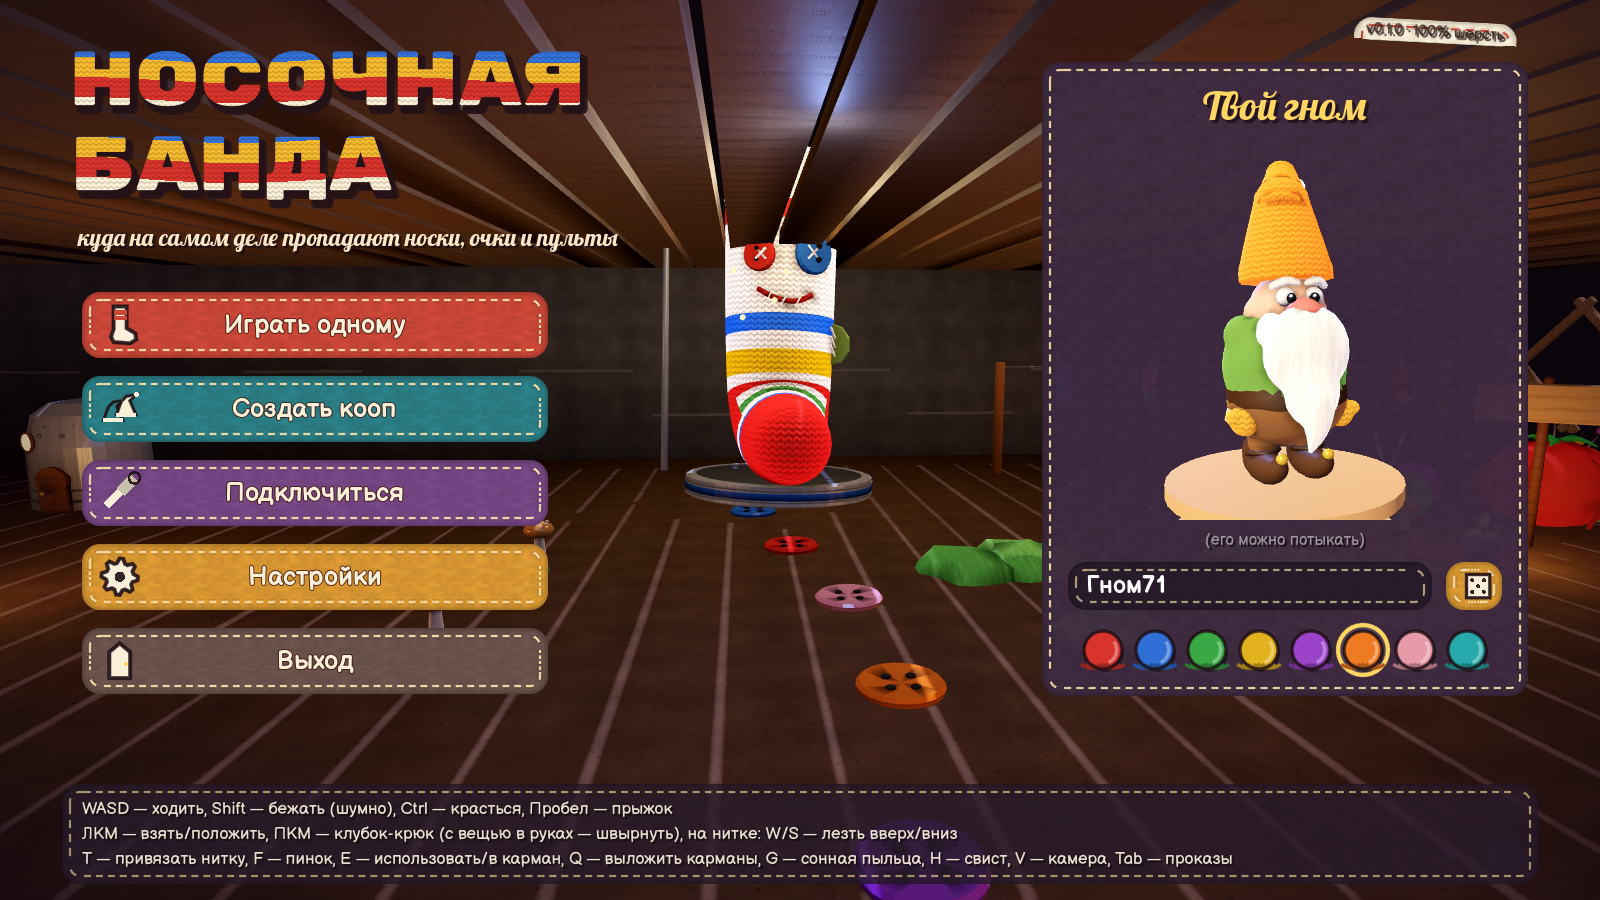
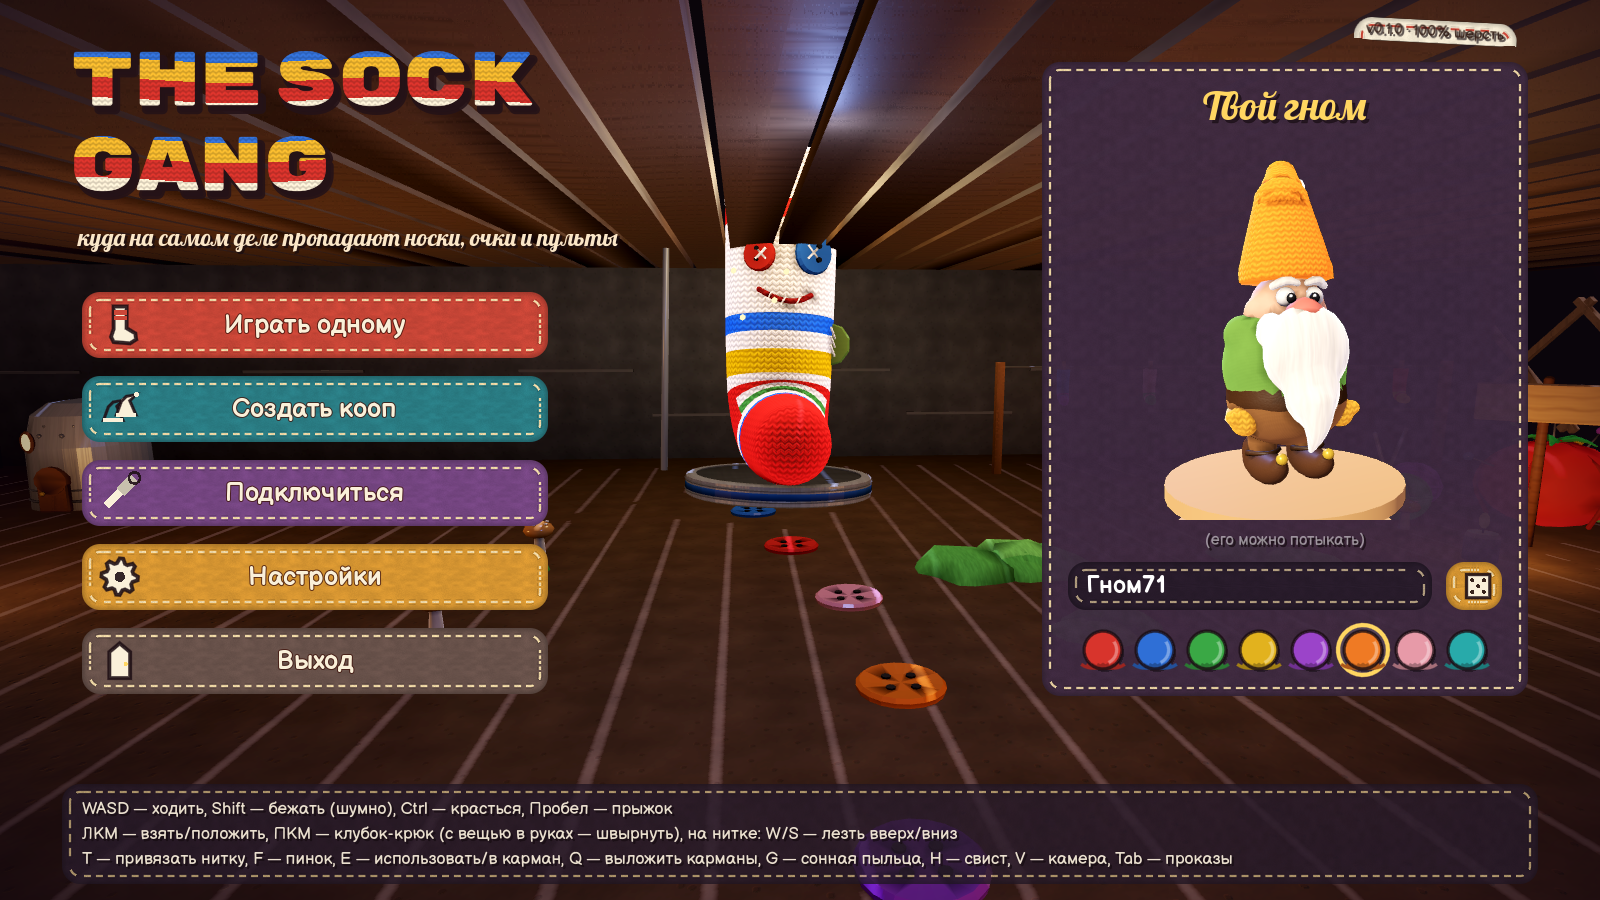
Call the game The Sock Gang everywhere
- The title is "THE SOCK GANG" in both languages: knitted menu logo
  ("THE SOCK" over "GANG", words set with a narrow gap), window title,
  exe product name, credits, README, docs, release names, Unity menus.
- The user data folder follows the new name; saves and settings from
  the old "Sock Gang" folder are copied over on first start.

Claude-Session: https://claude.ai/code/session_01GNXuQmuMSgWvcaPnoJRmHq

Changed region(s): [[0.0312, 0.0311, 0.375, 0.1244], [0.125, 0.1556, 0.25, 0.2489], [0.0312, 0.1556, 0.0938, 0.2178]]

diff --git a/Assets/Scripts/Core/Defs/Loc.cs b/Assets/Scripts/Core/Defs/Loc.cs
@@ -12,7 +12,7 @@ namespace Gnomes.Core
         static readonly Dictionary<string, string[]> table = new Dictionary<string, string[]>
         {
             // --- menus ---
-            ["title"] = new[] { "НОСОЧНАЯ БАНДА", "THE SOCK GANG" },
+            ["title"] = new[] { "THE SOCK GANG", "THE SOCK GANG" },
             ["subtitle"] = new[] { "куда на самом деле пропадают носки, очки и пульты", "where socks, glasses and remotes really go" },
             ["solo"] = new[] { "Играть одному", "Play solo" },
             ["host"] = new[] { "Создать кооп", "Host co-op" },
@@ -115,7 +115,7 @@ namespace Gnomes.Core
             ["nightTime"] = new[] { "Ночь", "Night" },
             ["credits"] = new[] { "Об игре", "About" },
             ["creditsText"] = new[] {
-                "«Носочная банда» — игра про гномов из-под крыльца.\n\nМодели связаны из треугольников вручную (ну, скриптами). Шрифты: Balsamiq Sans, Lobster и Rubik Mono One (SIL OFL). Движок: Godot.\n\nНи один носок не пострадал. Ну, почти.\nДед, если ты это читаешь — очки в аквариуме.",
+                "«The Sock Gang» — игра про гномов из-под крыльца.\n\nМодели связаны из треугольников вручную (ну, скриптами). Шрифты: Balsamiq Sans, Lobster и Rubik Mono One (SIL OFL). Движок: Godot.\n\nНи один носок не пострадал. Ну, почти.\nДед, если ты это читаешь — очки в аквариуме.",
                 "\"The Sock Gang\" is a game about the gnomes under the porch.\n\nThe models were knitted from triangles by hand (well, by scripts). Fonts: Balsamiq Sans, Lobster and Rubik Mono One (SIL OFL). Engine: Godot.\n\nNo socks were harmed. Well, almost.\nGrandpa, if you are reading this: your glasses are in the fish tank." },
             ["stampGood"] = new[] { "ОДОБРЕНО НОСКОМ", "SOCK APPROVED" },
             ["stampBad"] = new[] { "ВЫГОВОР", "REPRIMAND" },
@@ -139,7 +139,7 @@ namespace Gnomes.Core
             ["eggPoke20"] = new[] { "Гном: «Всё, я пошёл к Великому Носку жаловаться.»", "Gnome: \"That's it, I'm telling the Great Sock.\"" },
             ["eggLogo3"] = new[] { "Не тяни за нитку, распустишь!", "Don't pull the yarn, it'll unravel!" },
             ["eggLogo7"] = new[] { "Буквы связаны вручную. Семь раз отмерь — один раз распусти.", "The letters are hand-knitted. Measure seven times, unravel once." },
-            ["eggLogo12"] = new[] { "Всё, петля убежала. Теперь это «НОСОЧНАЯ БАНД».", "That's it, a stitch ran away. Now it's \"THE SOCK GAN\"." },
+            ["eggLogo12"] = new[] { "Всё, петля убежала. Теперь это «THE SOCK GAN».", "That's it, a stitch ran away. Now it's \"THE SOCK GAN\"." },
             ["eggWinter"] = new[] { "С Новым годом, банда! Дед повесил носок для подарков. Наш размер!", "Happy holidays, gang! Grandpa hung a stocking for presents. Our size!" },
             ["eggApril"] = new[] { "Первое апреля: дед сегодня особенно подозрительный.", "April Fools' Day: grandpa is extra suspicious today." },
             ["sockSecret0"] = new[] { "Великий Носок шепчет: «Я был левым. Правого унесла стиральная машина. Я помню.»", "The Great Sock whispers: \"I was the left one. The washing machine took the right one. I remember.\"" },

diff --git a/Assets/Editor/SockGangSetup.cs b/Assets/Editor/SockGangSetup.cs
@@ -27,10 +27,10 @@ namespace Gnomes.EditorTools
             };
         }
 
-        [MenuItem("Sock Gang/Repair project setup", false, 100)]
+        [MenuItem("The Sock Gang/Repair project setup", false, 100)]
         static void RunFromMenu() => Run(true);
 
-        [MenuItem("Sock Gang/Open main scene", false, 1)]
+        [MenuItem("The Sock Gang/Open main scene", false, 1)]
         static void OpenMain()
         {
             Run(false);
@@ -63,7 +63,7 @@ namespace Gnomes.EditorTools
             if (firstTime && string.IsNullOrEmpty(active.path) && !active.isDirty) EditorSceneManager.OpenScene(ScenePath);
 
             EnsureLegacyInput();
-            if (verbose) Debug.Log("[Sock Gang] Project setup is OK. Press Play to start the game.");
+            if (verbose) Debug.Log("[The Sock Gang]Project setup is OK. Press Play to start the game.");
         }
 
         // ------------------------------------------------------------------ materials
@@ -110,7 +110,7 @@ namespace Gnomes.EditorTools
             }
             if (shader == null)
             {
-                Debug.LogWarning("[Sock Gang] Shader not found for " + name + " (is the project using the Built-in render pipeline?)");
+                Debug.LogWarning("[The Sock Gang]Shader not found for " + name + " (is the project using the Built-in render pipeline?)");
                 return false;
             }
             var m = new Material(shader) { name = name };
@@ -154,7 +154,7 @@ namespace Gnomes.EditorTools
 
         static void ApplyPlayerSettings()
         {
-            PlayerSettings.productName = "Sock Gang";
+            PlayerSettings.productName = "The Sock Gang";
             PlayerSettings.companyName = "SockGang";
             PlayerSettings.runInBackground = true; // the host keeps simulating when alt-tabbed
             PlayerSettings.visibleInBackground = true;
@@ -176,7 +176,7 @@ namespace Gnomes.EditorTools
             p.intValue = 2;
             so.ApplyModifiedProperties();
             AssetDatabase.SaveAssets();
-            if (EditorUtility.DisplayDialog("Sock Gang",
+            if (EditorUtility.DisplayDialog("The Sock Gang",
                     "Игре нужен классический Input Manager. Включён режим \"Both\" — редактор нужно перезапустить.\n\n" +
                     "The game uses the classic Input Manager; Active Input Handling was set to \"Both\". Restart the editor now?",
                     "Перезапустить / Restart", "Позже / Later"))

diff --git a/Assets/Editor/SockGangBuild.cs b/Assets/Editor/SockGangBuild.cs
@@ -8,13 +8,13 @@ namespace Gnomes.EditorTools
     /// <summary>One-click player builds into Builds/&lt;platform&gt;/ (also usable from the command line via -executeMethod).</summary>
     public static class SockGangBuild
     {
-        [MenuItem("Sock Gang/Build/Windows (x64)", false, 20)]
+        [MenuItem("The Sock Gang/Build/Windows (x64)", false, 20)]
         public static void BuildWindows() => Build(BuildTarget.StandaloneWindows64, "Builds/Windows/SockGang.exe");
 
-        [MenuItem("Sock Gang/Build/Linux (x64)", false, 21)]
+        [MenuItem("The Sock Gang/Build/Linux (x64)", false, 21)]
         public static void BuildLinux() => Build(BuildTarget.StandaloneLinux64, "Builds/Linux/SockGang.x86_64");
 
-        [MenuItem("Sock Gang/Build/macOS", false, 22)]
+        [MenuItem("The Sock Gang/Build/macOS", false, 22)]
         public static void BuildMac() => Build(BuildTarget.StandaloneOSX, "Builds/macOS/SockGang.app");
 
         static void Build(BuildTarget target, string output)
@@ -31,12 +31,12 @@ namespace Gnomes.EditorTools
             var s = report.summary;
             if (s.result == BuildResult.Succeeded)
             {
-                Debug.Log("[Sock Gang] Build OK: " + output + " (" + (s.totalSize / (1024 * 1024)) + " MB)");
+                Debug.Log("[The Sock Gang]Build OK: " + output + " (" + (s.totalSize / (1024 * 1024)) + " MB)");
                 if (!Application.isBatchMode) EditorUtility.RevealInFinder(output);
             }
             else
             {
-                Debug.LogError("[Sock Gang] Build failed: " + s.result + ", errors: " + s.totalErrors);
+                Debug.LogError("[The Sock Gang]Build failed: " + s.result + ", errors: " + s.totalErrors);
                 if (Application.isBatchMode) EditorApplication.Exit(1);
             }
         }

diff --git a/godot/src/UI/UiRoot.cs b/godot/src/UI/UiRoot.cs
@@ -190,12 +190,19 @@ void fragment() {
             if (gone) title = title.Substring(0, title.Length - 1);
             var box = new VBoxContainer { MouseFilter = Control.MouseFilterEnum.Stop };
             box.AddThemeConstantOverride("separation", -8);
-            var words = title.Split(' ');
-            foreach (var wd in words)
+            // two knitted lines: "THE SOCK" over "GANG"
+            int cut = title.LastIndexOf(' ');
+            var words = cut > 0 ? new[] { title.Substring(0, cut), title.Substring(cut + 1) } : new[] { title };
+            foreach (var line in words)
             {
-                var k = Style.KnitText(wd, size, new Color(0.84f, 0.2f, 0.17f), new Color(0.98f, 0.93f, 0.83f), new Color(0.2f, 0.44f, 0.84f), new Color(0.95f, 0.72f, 0.18f));
-                if (center) k.SizeFlagsHorizontal = Control.SizeFlags.ShrinkCenter;
-                box.AddChild(k);
+                // words side by side with a narrow gap: the logo font's own space is a full letter wide
+                // and each knitted word already leaves room for its shadow on the right
+                var row = new HBoxContainer { MouseFilter = Control.MouseFilterEnum.Ignore };
+                row.AddThemeConstantOverride("separation", -size / 8);
+                foreach (var wd in line.Split(' '))
+                    row.AddChild(Style.KnitText(wd, size, new Color(0.84f, 0.2f, 0.17f), new Color(0.98f, 0.93f, 0.83f), new Color(0.2f, 0.44f, 0.84f), new Color(0.95f, 0.72f, 0.18f)));
+                if (center) row.SizeFlagsHorizontal = Control.SizeFlags.ShrinkCenter;
+                box.AddChild(row);
             }
             box.Position = pos;
             if (center)

diff --git a/godot/src/App/SaveStore.cs b/godot/src/App/SaveStore.cs
@@ -35,6 +35,27 @@ namespace SockGang.App
             }
         }
 
+        /// <summary>Builds before "The Sock Gang" kept their files in a "Sock Gang" folder next to ours: bring them over once.</summary>
+        public static void MigrateOldFolder()
+        {
+            try
+            {
+                string dir = OS.GetUserDataDir();
+                string old = System.IO.Path.Combine(System.IO.Path.GetDirectoryName(dir) ?? "", "Sock Gang");
+                if (old == dir || !System.IO.Directory.Exists(old)) return;
+                System.IO.Directory.CreateDirectory(dir);
+                foreach (var name in new[] { "sockgang_save.txt", "settings.cfg" })
+                {
+                    string from = System.IO.Path.Combine(old, name), to = System.IO.Path.Combine(dir, name);
+                    if (System.IO.File.Exists(from) && !System.IO.File.Exists(to)) System.IO.File.Copy(from, to);
+                }
+            }
+            catch (Exception e)
+            {
+                GD.PushWarning("[Save] could not move old files: " + e.Message);
+            }
+        }
+
         public static void Reset()
         {
             if (FileAccess.FileExists(Path)) DirAccess.RemoveAbsolute(ProjectSettings.GlobalizePath(Path));

diff --git a/godot/src/Dev/ShotHarness.cs b/godot/src/Dev/ShotHarness.cs
@@ -28,7 +28,7 @@ namespace SockGang.Dev
                 {
                     var ff = new FontFile();
                     ff.Data = System.IO.File.ReadAllBytes(f);
-                    var l = new Label { Text = System.IO.Path.GetFileNameWithoutExtension(f) + ":  НОСОЧНАЯ БАНДА — Играть одному! Ёжик, 123", };
+                    var l = new Label { Text = System.IO.Path.GetFileNameWithoutExtension(f) + ":  THE SOCK GANG — Играть одному! Ёжик, 123", };
                     l.AddThemeFontOverride("font", ff);
                     l.AddThemeFontSizeOverride("font_size", 40);
                     l.AddThemeColorOverride("font_color", new Color(1f, 0.9f, 0.7f));

diff --git a/godot/src/App/GameApp.cs b/godot/src/App/GameApp.cs
@@ -73,6 +73,7 @@ namespace SockGang.App
             }
             I = this;
             ProcessMode = ProcessModeEnum.Always;
+            SaveStore.MigrateOldFolder();
             Settings = Settings.Load();
             Loc.Current = Settings.Language;
             Engine.MaxFps = 144;

diff --git a/README.md b/README.md
@@ -1,4 +1,4 @@
-# 🧦 Носочная банда (The Sock Gang)
+# 🧦 The Sock Gang
 
 > Куда пропадают вторые носки, очки и пульт от телевизора? Это мы. Гномы из-под крыльца.
 
@@ -114,7 +114,7 @@
 | **Radmin VPN / ZeroTier / Hamachi** (проще всего) | Все заходят в одну виртуальную сеть. Хост сообщает свой виртуальный IP (например, `26.x.x.x`), остальные подключаются к нему. |
 | **Проброс порта** | На роутере хоста пробросить **UDP 27777** на его компьютер и разрешить игру в брандмауэре Windows. Друзья подключаются к внешнему IP хоста. |
 
-Прогресс (материалы, снаряжение, номер ночи) хранится у хоста. На Windows это `%APPDATA%\\Godot\\app_userdata\\Sock Gang\\sockgang_save.txt`, на Linux — `~/.local/share/godot/app_userdata/Sock Gang/`.
+Прогресс (материалы, снаряжение, номер ночи) хранится у хоста. На Windows это `%APPDATA%\\Godot\\app_userdata\\The Sock Gang\\sockgang_save.txt`, на Linux — `~/.local/share/godot/app_userdata/The Sock Gang/`.
 
 ## Статус и как это проверялось
 

diff --git a/docs/DESIGN.md b/docs/DESIGN.md
@@ -1,4 +1,4 @@
-# Носочная банда (The Sock Gang) — диздок
+# The Sock Gang — диздок
 
 > Куда пропадают вторые носки, очки, пульт от телевизора и ключи?
 > Это мы. Гномы из-под крыльца.
